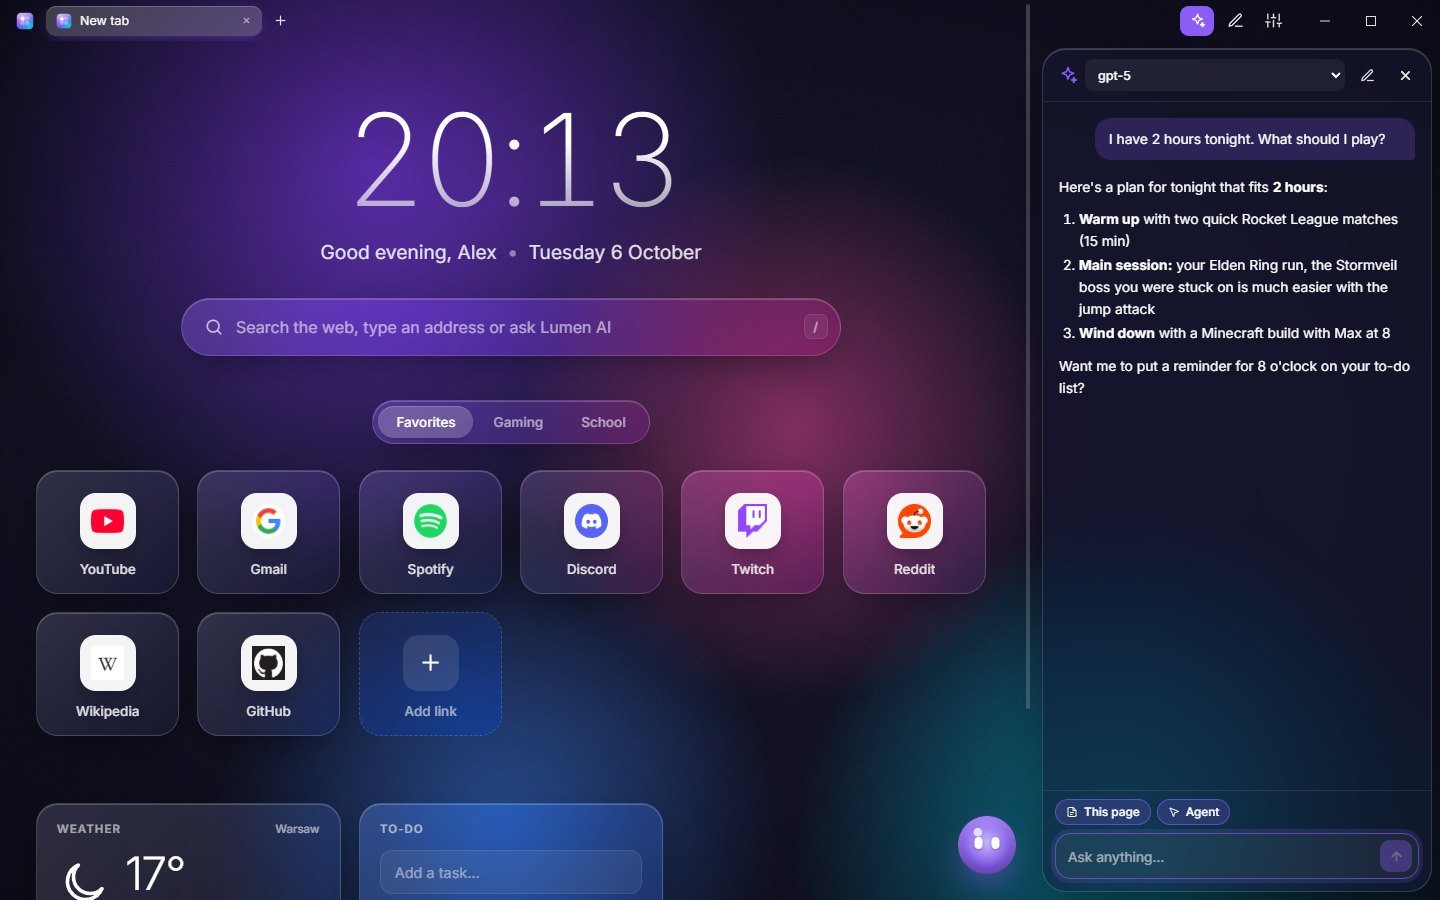
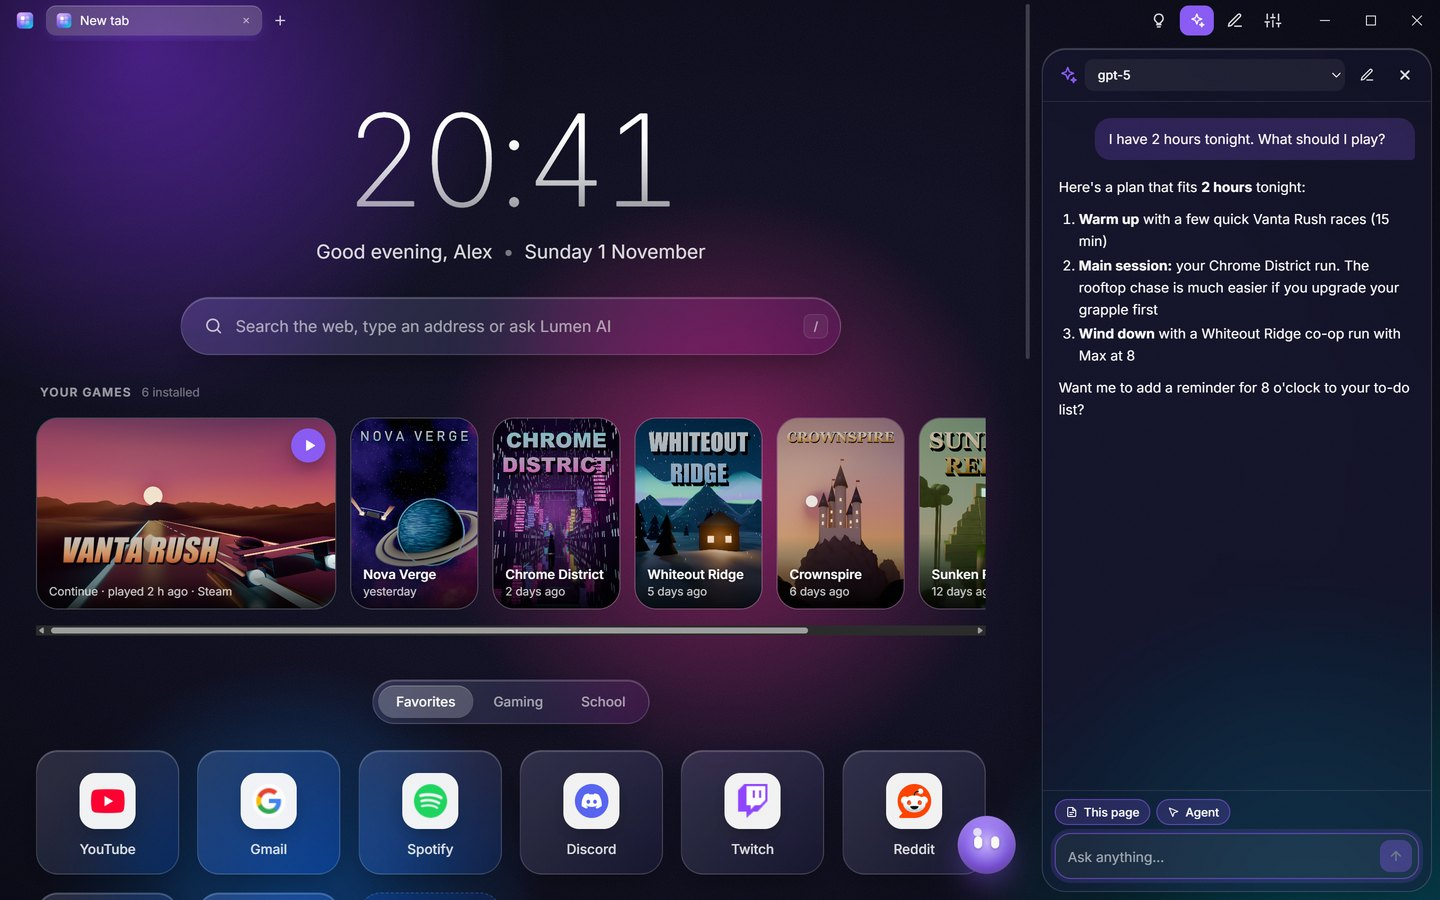
Site: Lumen 3.8 screenshots and Steam wishlist sales

diff --git a/index.html b/index.html
@@ -41,7 +41,7 @@
       </div>
       <small>Prefer a zip file? <a href="https://github.com/olik0495/lumen/releases/latest" data-dl="browser"><span id="dlLabel">Download Lumen</span></a> (<span id="dlSize">about 150 MB</span>) · or <a href="https://github.com/olik0495/lumen/releases/latest" data-dl="plain">without the built-in browser</a></small>
     </div>
-    <div class="shot"><img src="assets/lumen-dark.jpg" alt="Lumen's start page: a clock, a search box, link tiles for YouTube, Gmail, Spotify, Discord and more, and weather and to-do widgets on a purple glowing background" width="1440" height="900"></div>
+    <div class="shot"><img src="assets/lumen-dark.jpg" alt="Lumen's start page: a clock, a search box, your games with their cover art, link tiles for YouTube, Gmail, Spotify, Discord and more, and the Free games &amp; deals widget on a purple glowing background" width="1440" height="900"></div>
   </div>
 
   <section id="features">
@@ -56,7 +56,7 @@
         <div class="card"><div class="ico"><svg viewBox="0 0 24 24" fill="currentColor"><path d="M12 2l1.8 5.4L19 9l-5.2 1.6L12 16l-1.8-5.4L5 9l5.2-1.6zM19 14l.9 2.6 2.1.9-2.1.9L19 21l-.9-2.6-2.1-.9 2.1-.9z"/></svg></div>
           <h3>Lumi, your AI companion</h3><p>Ask anything, get video summaries and game tips, or let it click through websites for you (it always asks first). Connect ChatGPT, Claude, Gemini, or a free AI that runs on your own PC.</p></div>
         <div class="card"><div class="ico"><svg viewBox="0 0 24 24" fill="none" stroke="currentColor" stroke-width="2" stroke-linecap="round"><rect x="3" y="3" width="7" height="7" rx="2"/><rect x="14" y="3" width="7" height="7" rx="2"/><rect x="3" y="14" width="7" height="7" rx="2"/><rect x="14" y="14" width="7" height="7" rx="2"/></svg></div>
-          <h3>Handy widgets</h3><p>Weather, to-do list, notes, calculator, what's playing on Spotify or YouTube with its cover, who's live on Twitch, this week's free games and big Steam sales, and your PC's stats.</p></div>
+          <h3>Handy widgets</h3><p>Weather, to-do list, notes, calculator, what's playing on Spotify or YouTube with its cover, who's live on Twitch, this week's free games, big Steam sales and the games on your Steam wishlist that are on sale, and your PC's stats.</p></div>
         <div class="card"><div class="ico"><svg viewBox="0 0 24 24" fill="none" stroke="currentColor" stroke-width="2" stroke-linecap="round"><circle cx="13.5" cy="6.5" r="1.5"/><circle cx="17.5" cy="10.5" r="1.5"/><circle cx="8.5" cy="7.5" r="1.5"/><circle cx="6.5" cy="12.5" r="1.5"/><path d="M12 2a10 10 0 0 0 0 20c1.1 0 2-.9 2-2 0-.5-.2-1-.5-1.3-.3-.4-.5-.8-.5-1.3 0-1.1.9-2 2-2h2.4A5.6 5.6 0 0 0 22 9.8C22 5.5 17.5 2 12 2z"/></svg></div>
           <h3>Looks the way you want</h3><p>Themes, light and dark mode, glass effects, fonts, your own wallpaper (a picture, or a video that pauses while you game), and graphics settings from fast to full 3D.</p></div>
         <div class="card"><div class="ico"><svg viewBox="0 0 24 24" fill="none" stroke="currentColor" stroke-width="2" stroke-linecap="round" stroke-linejoin="round"><path d="M21 12a9 9 0 1 1-3-6.7L21 8"/><path d="M21 3v5h-5"/></svg></div>
